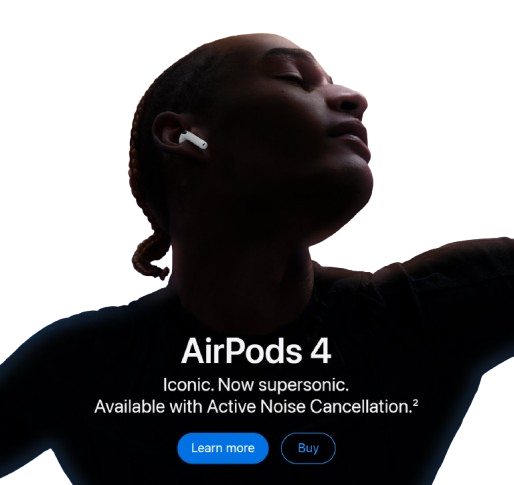
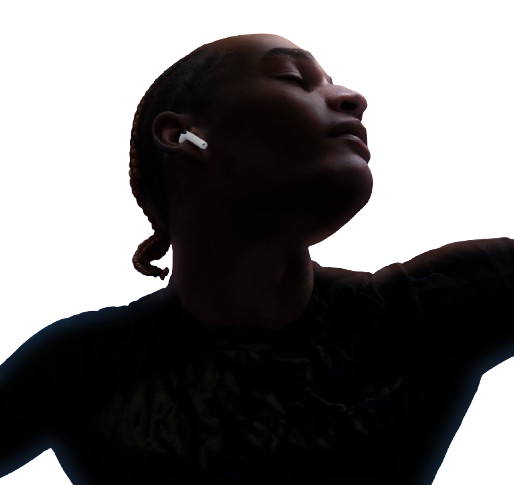
image-content change

Changed region(s): [[0.1868, 0.6804, 0.8093, 0.9588], [0.2802, 0.5258, 0.3424, 0.5876], [0.2802, 0.4639, 0.3113, 0.4948]]

diff --git a/src/Fourth/Fourth.css b/src/Fourth/Fourth.css
@@ -8,7 +8,6 @@
   padding: 0 12px;
   box-sizing: border-box;
   overflow: hidden;
-  position: relative;
   z-index: 1;
 }
 
@@ -45,6 +44,7 @@
 .fourth-left-container .watch {
   width: 100%;
 }
+
 
 .fourth-container .buttons {
   display: flex;
@@ -92,26 +92,56 @@
   margin: 0 0 0 12px;
 }
 
-.fourth-right-container .person {
+
+
+.fourth-right-container .person{
+
   width: 100%;
+  height: 100%;
   object-fit: cover;
+
+}
+.fourth-right-container .fourth-right-content{
+  margin-top:-180px;
+  margin-bottom:20px;
+ 
+ 
+}
+.fourth-right-content h3{
+  color:white;
+  font-size: 2.2em;
+}
+.fourth-right-content h4{
+  color:white;
+  font-size: 1.2em;
 }
 
+@media (max-width:992px){
 
-@media (max-width:992px){
+  
   .fourth-right-container .person {
     width: 100%;
+    height:100%;
     object-fit: cover;
-    margin-top:20px;
+
+  }
+
+  .fourth-right-container .fourth-right-content{
+    margin-top:-160px;
+    margin-bottom:10px;
+   
+   
+  }
+  .fourth-right-content h3{
+    color:white;
+    font-size: 2.0em;
+  }
+  .fourth-right-content h4{
+    color:white;
+    font-size: 1em;
   }
 }
-@media (max-width:992px){
-  .fourth-right-container .person {
-    width: 100%;
-    object-fit: cover;
-    margin-top:65px;
-  }
-}
+
 
 
 
@@ -126,19 +156,67 @@
   .fourth-right-container {
     margin: 0 0 12px 0;
   }
+
   .fourth-right-container .person {
     width: 100%;
+    height:100%;
     object-fit: cover;
+
   }
+
+  .fourth-right-container .fourth-right-content{
+    margin-top:-190px;
+    margin-bottom:10px;
+
+   
+   
+  }
+  .fourth-right-content h3{
+    color:white;
+    font-size: 2.4em;
+  }
+  .fourth-right-content h4{
+    color:white;
+    font-size: 1.2em;
+  }
+
+
+
  }
+
 
 @media (max-width: 480px) {
   .fourth-left-container h3,
   .fourth-left-container h2{
         font-size: 1em;
   }
+
   .fourth-right-container .person {
     width: 100%;
     object-fit: cover;
+
   }
+
+  .fourth-right-container .fourth-right-content{
+    margin-top:-130px;
+    margin-bottom:50px;
+
+   
+   
+  }
+  .fourth-right-content h3{
+    color:white;
+    font-size: 1.2em;
+
+  }
+  .fourth-right-content h4{
+    color:white;
+    font-size: 0.9em;
+  }
+
+
+
+
+
+
 }

diff --git a/src/Fourth/Fourth.jsx b/src/Fourth/Fourth.jsx
@@ -3,7 +3,7 @@ import { Button, Modal } from "antd";
 import "./Fourth.css";
 import apple_logo from "../assets/applelogoblack.png";
 import watch from "../assets/watch.png";
-import person from "../assets/person.png";
+import personfull1 from "../assets/personfull1.png";
 const Fourth = () => {
   const [isModalVisible, setIsModalVisible] = useState(false);
   const showModal = () => {
@@ -53,7 +53,37 @@ const Fourth = () => {
           <img className="watch" src={watch} alt="" />
         </div>
         <div className="fourth-right-container">
-          <img className="person" src={person} alt="" />
+          <img className="person" src={personfull1} alt="" />
+          <div className="fourth-right-content">
+            <h3>AirPods 4</h3>
+            <h4>Iconic. Now Supersonic.</h4>
+            <h4>Available with Active Noise Cancellation.<sup>2</sup></h4>
+
+            <div className="buttons">
+            <button className="more-btn">
+              <a
+                href="https://www.apple.com/in/airpods-4/"
+                target="_blank"
+                style={{ color: "white", textDecoration: "none" }}
+              >
+                Learn more
+              </a>
+            </button>
+
+            <Button className="buy-btn" type="primary" onClick={showModal}>
+              {" "}
+              Buy{" "}
+            </Button>
+            <Modal
+              title="Purchase Confirmation"
+              visible={isModalVisible}
+              onOk={handleOk}
+              onCancel={handleCancel}
+            >
+              <p>Are you sure you want to purchase this item?</p>
+            </Modal>
+          </div>
+          </div>
         </div>
       </div>
     </>
